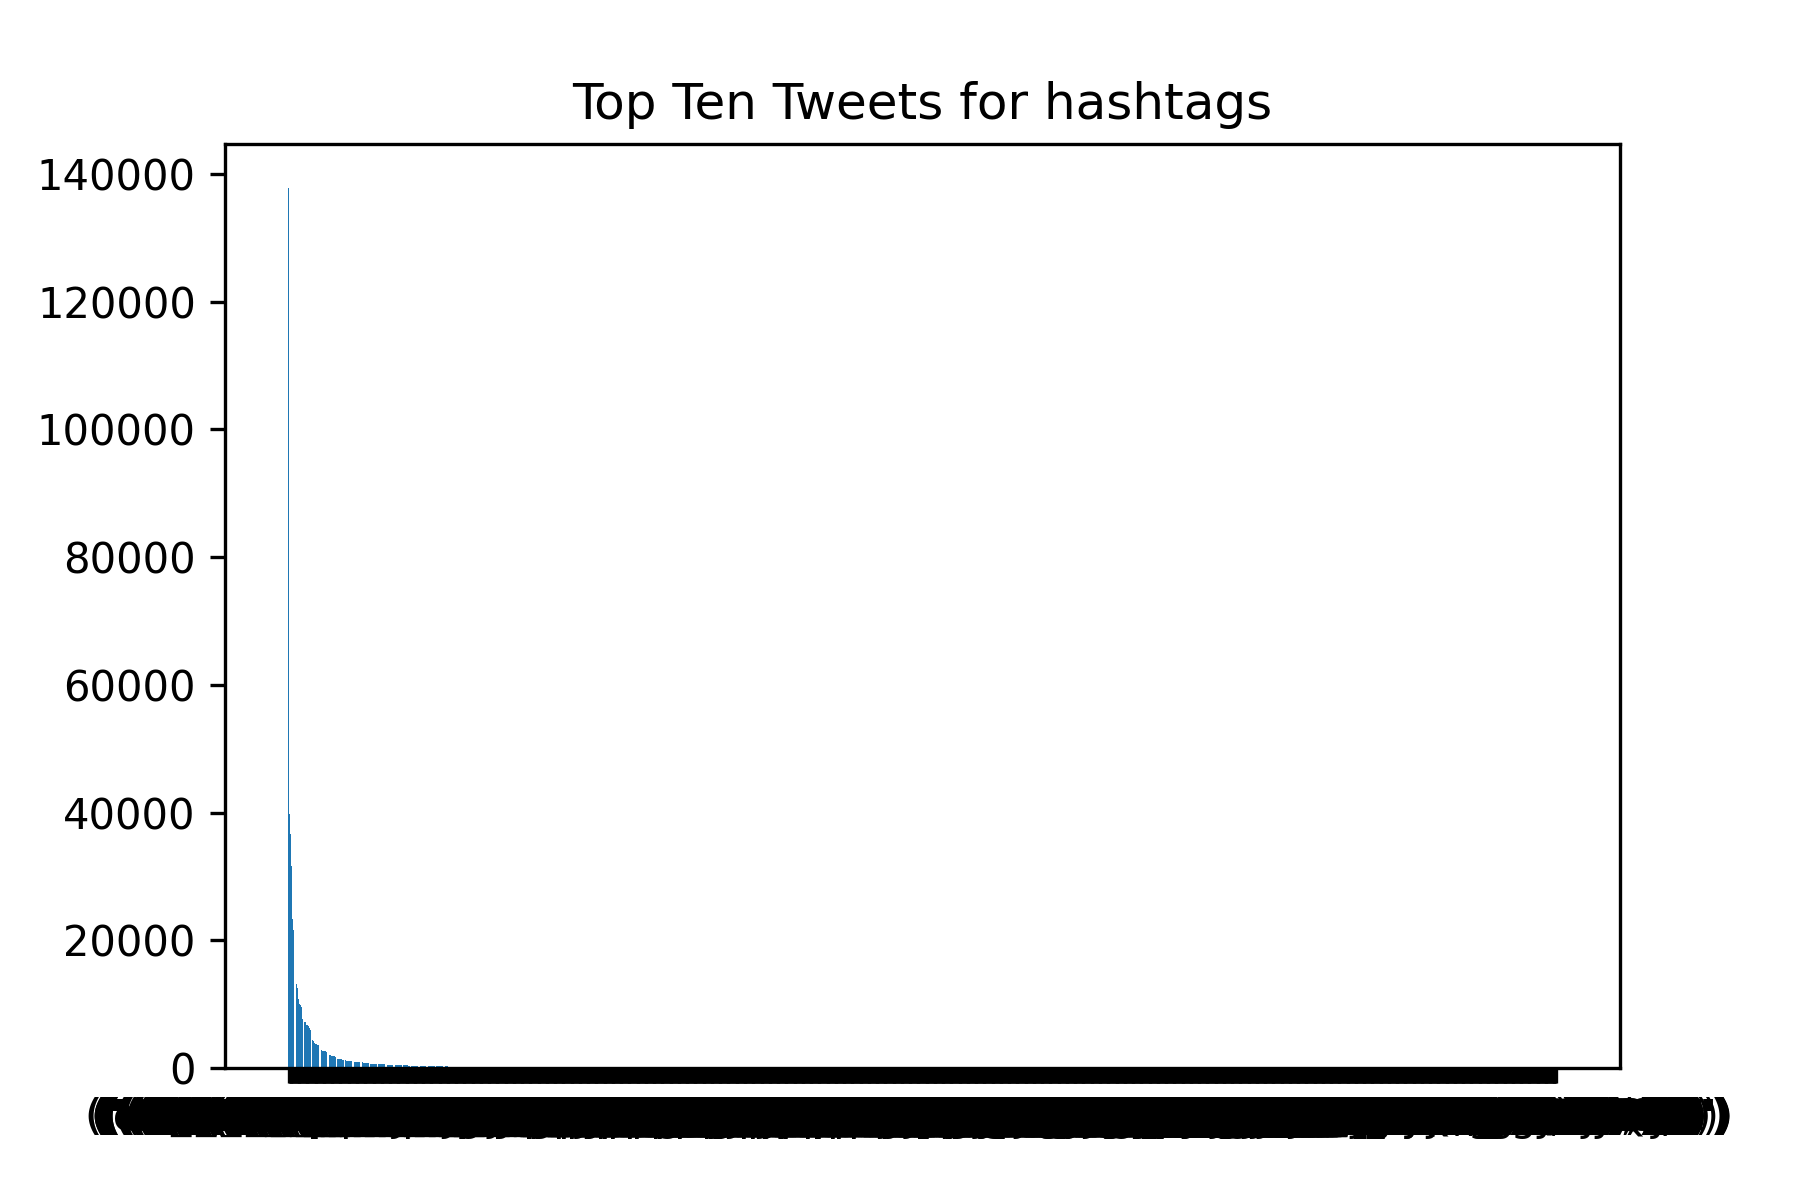
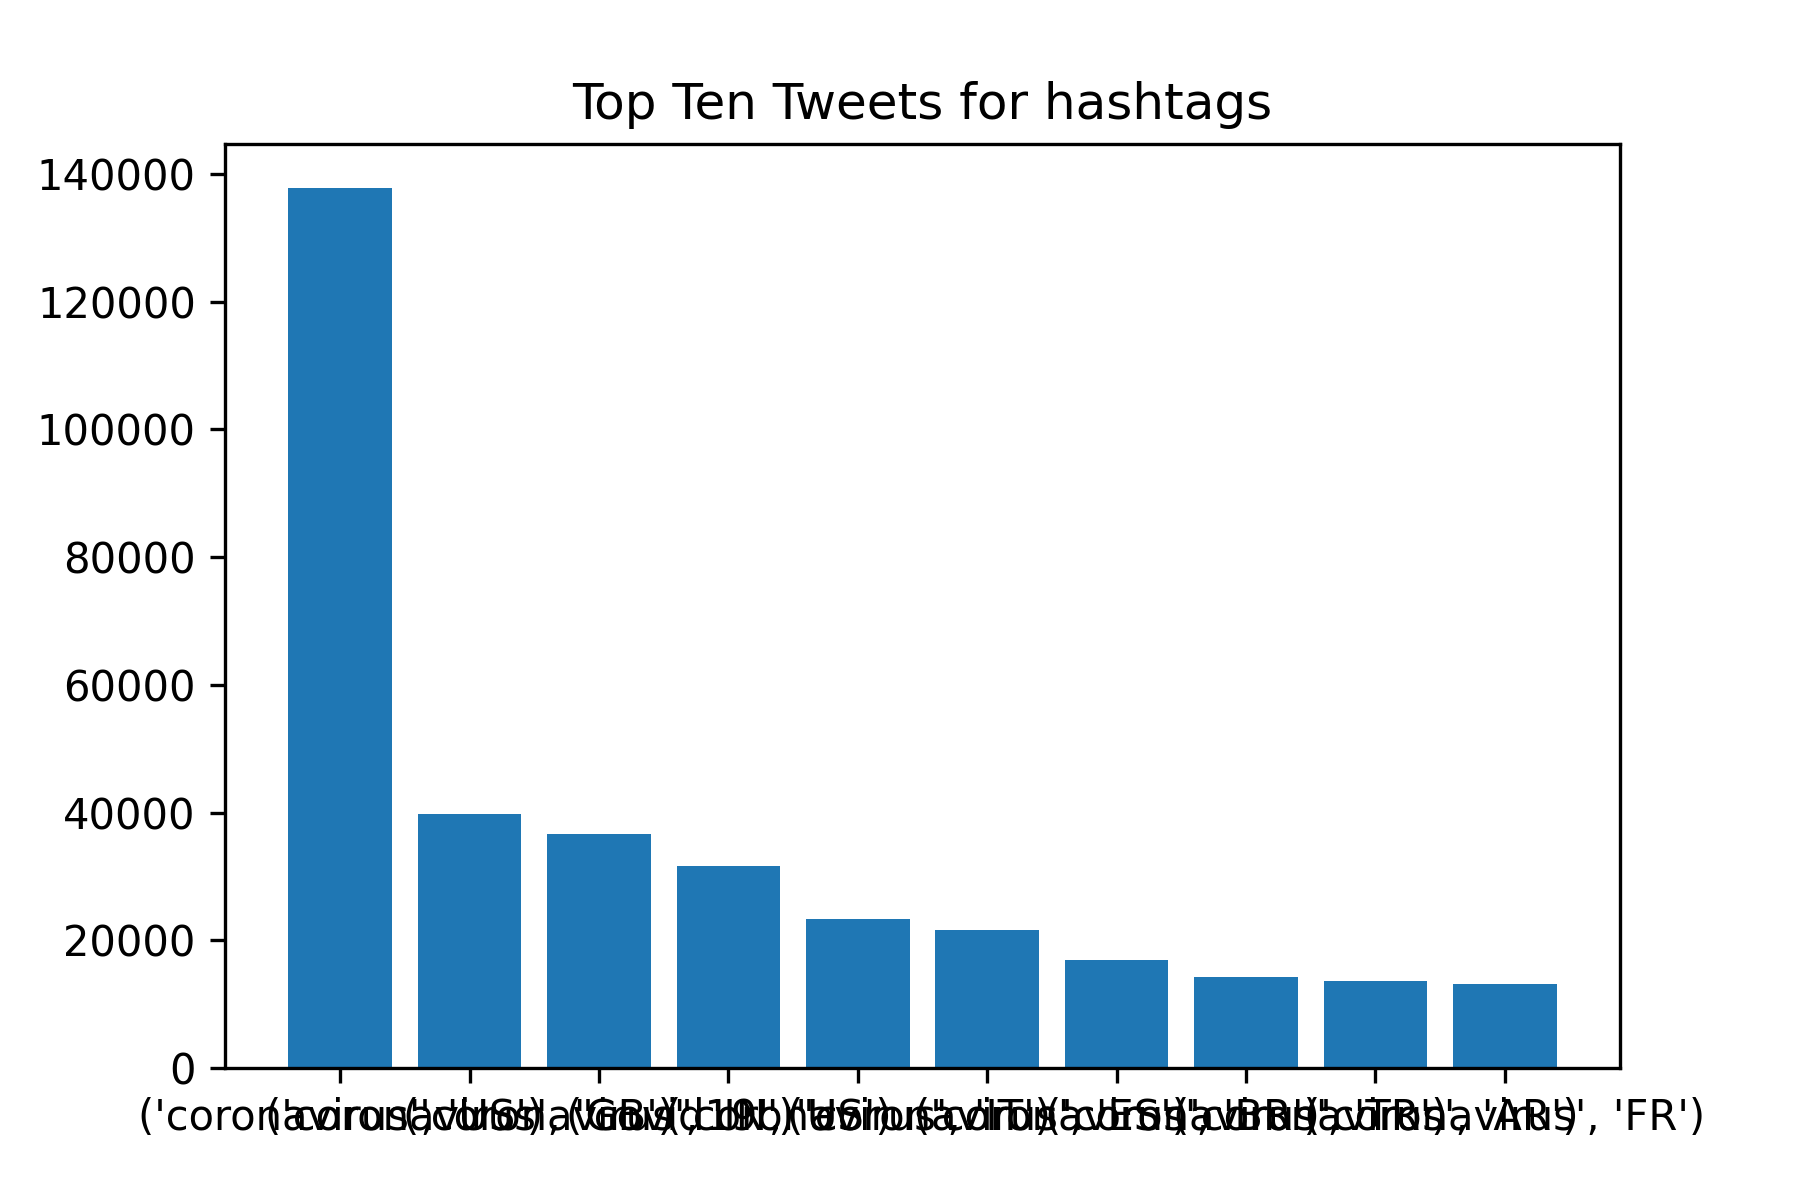
push2

Changed region(s): [[0.0311, 0.1542, 0.9644, 0.9558]]

diff --git a/src/visualize.py b/src/visualize.py
@@ -34,7 +34,7 @@ for k,v in items:
 
 topten = items[:10]
 #print(topten)
-categories, values = zip(*items)
+categories, values = zip(*topten)
 
 plt.figure(figsize=(6, 4))
 plt.bar(categories, values)
